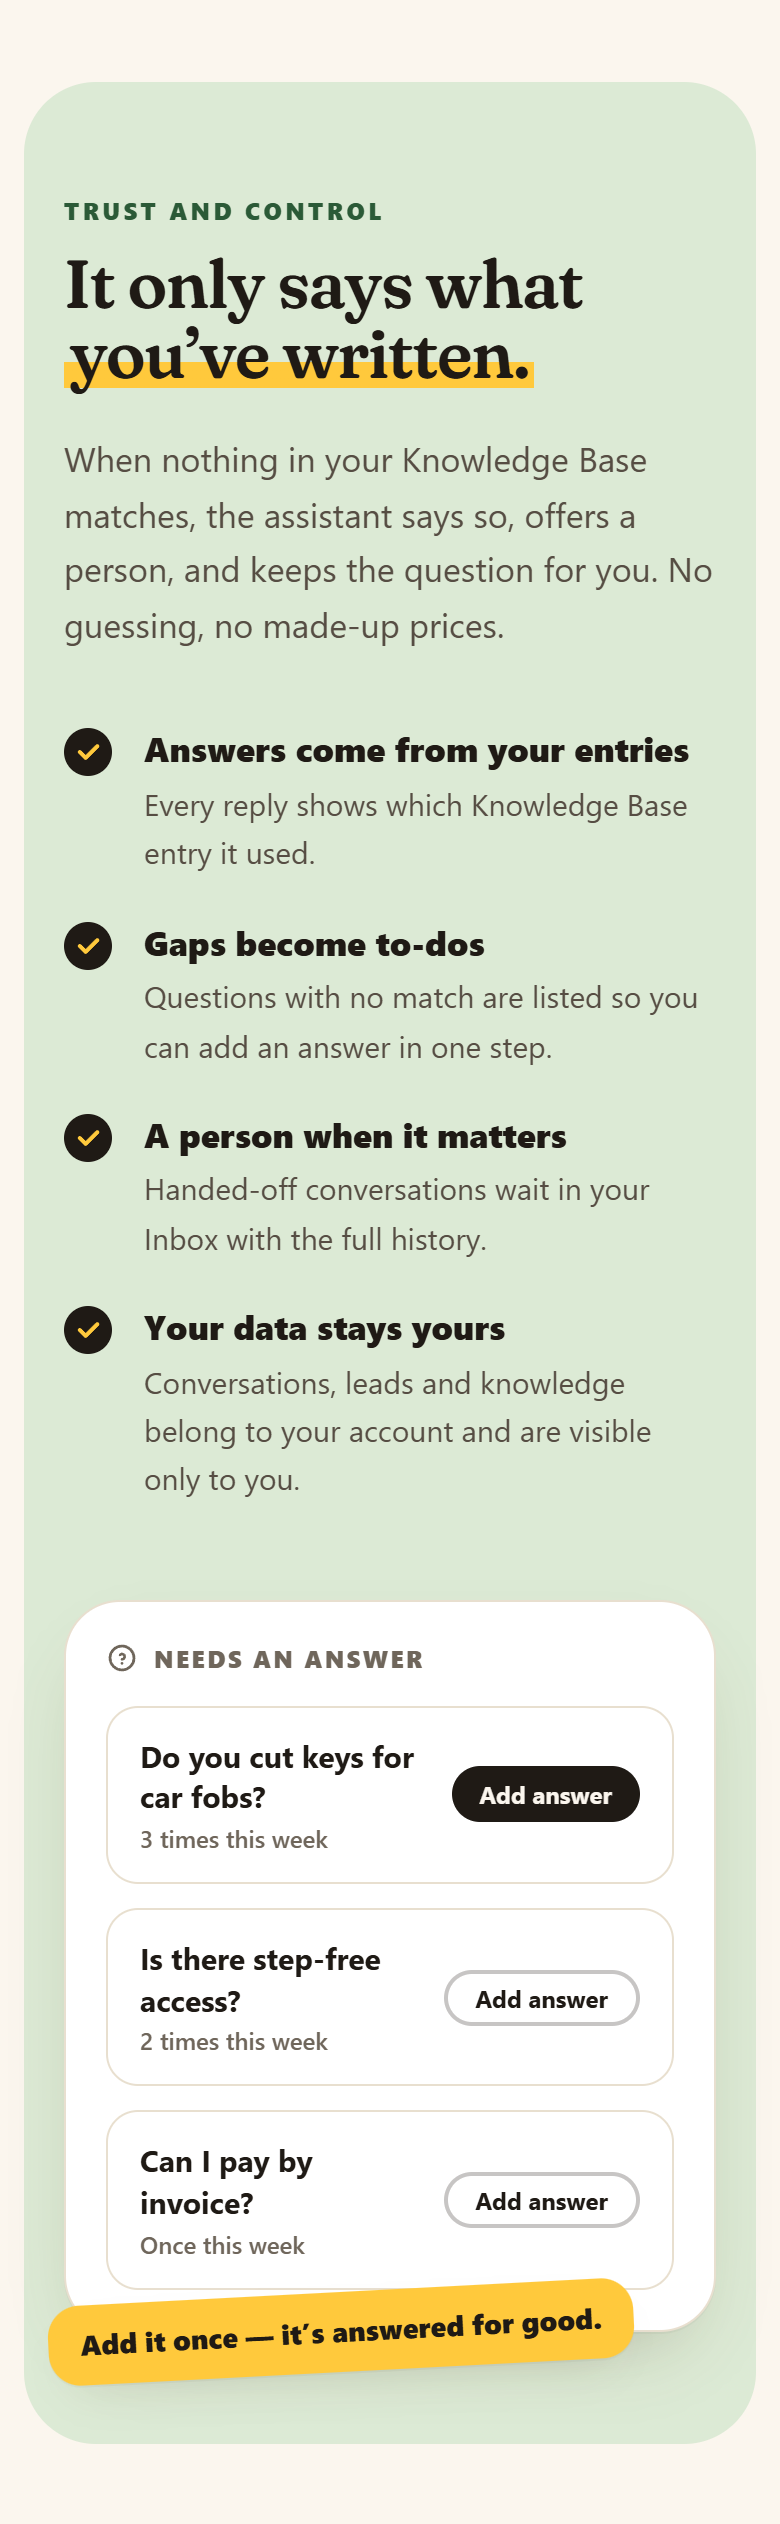
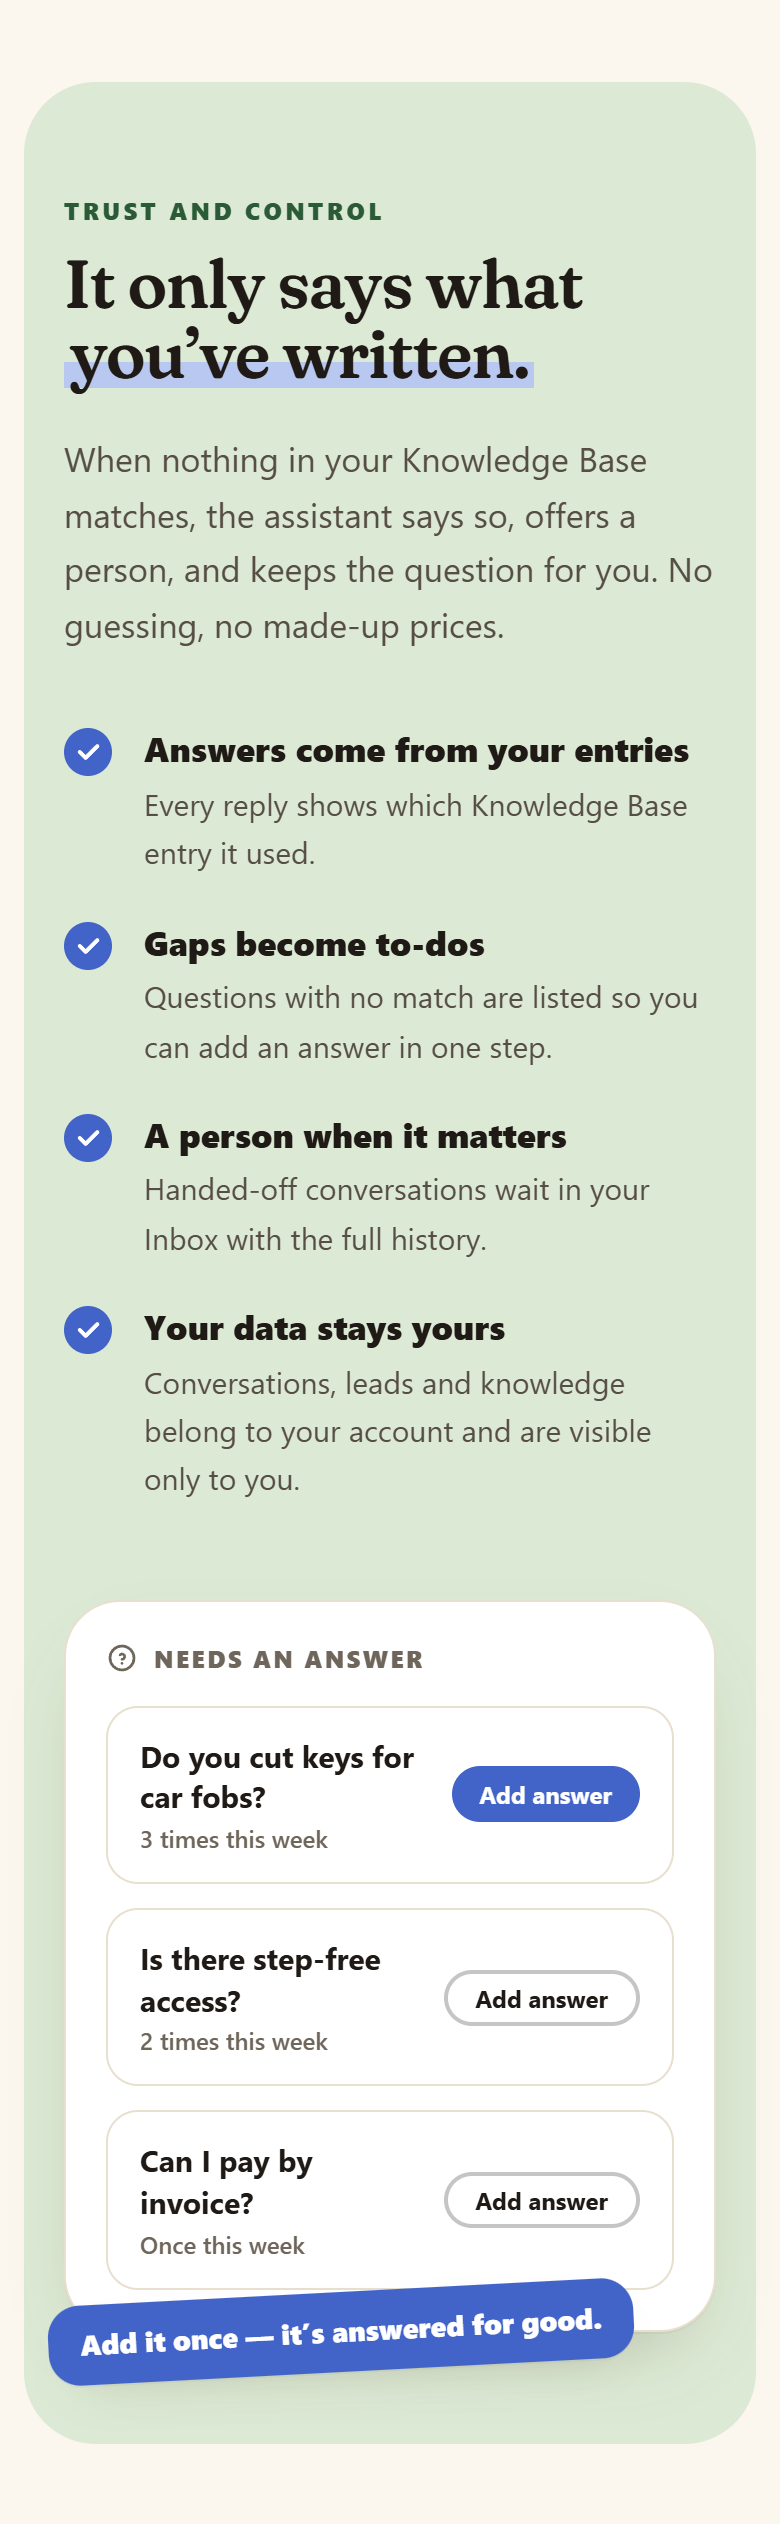
Switch landing accent from yellow to muted blue (#4263C7)
Blue primary buttons, visitor bubbles, tabs, logo and closing panel;
soft blue highlight marker and hero disc; deeper #2F4A9E for hover,
eyebrow text and focus rings. Paper background, Fraunces type, layout,
copy and examples unchanged.

diff --git a/src/features/marketing/components/how-it-works-section.tsx b/src/features/marketing/components/how-it-works-section.tsx
@@ -76,14 +76,14 @@ function InstallFragment() {
     <div className='bg-lp-ink overflow-hidden rounded-2xl shadow-lp-soft'>
       <div className='flex items-center gap-1.5 px-4 pt-3.5' aria-hidden='true'>
         <span className='bg-lp-coral size-2.5 rounded-full' />
-        <span className='bg-lp-sun size-2.5 rounded-full' />
+        <span className='bg-lp-blue-mid size-2.5 rounded-full' />
         <span className='bg-lp-sage size-2.5 rounded-full' />
       </div>
       <pre className='text-lp-paper overflow-x-auto px-4 pt-3 pb-5 font-mono text-[13px] leading-relaxed'>
         <code>
-          <span className='text-lp-sun'>{'<script'}</span>
+          <span className='text-lp-blue-mid'>{'<script'}</span>
           {'\n  src="…/widget-loader.js"\n  data-widget-id="your-id"\n  async'}
-          <span className='text-lp-sun'>{'></script>'}</span>
+          <span className='text-lp-blue-mid'>{'></script>'}</span>
         </code>
       </pre>
     </div>
@@ -96,7 +96,7 @@ const STEPS = [
     description:
       'Add your hours, services, prices and policies as short answers. Edit them whenever things change.',
     visual: <KnowledgeFragment />,
-    tint: 'bg-lp-sun-soft'
+    tint: 'bg-lp-blue-soft'
   },
   {
     title: 'Choose how it sounds',
@@ -110,7 +110,7 @@ const STEPS = [
     description:
       'Match the widget to your brand, copy the snippet, and test it before it goes live.',
     visual: <InstallFragment />,
-    tint: 'bg-lp-sky'
+    tint: 'bg-lp-paper-deep'
   }
 ] as const;
 
@@ -121,7 +121,7 @@ export function HowItWorksSection() {
       className='mx-auto max-w-6xl scroll-mt-20 px-5 py-16 sm:px-8 lg:py-24'
     >
       <div className='max-w-2xl'>
-        <p className='text-lp-coral text-xs font-extrabold tracking-[0.14em] uppercase'>
+        <p className='text-lp-blue-deep text-xs font-extrabold tracking-[0.14em] uppercase'>
           How it works
         </p>
         <h2 className='lp-display mt-3 text-[34px] leading-[1.05] font-semibold text-balance sm:text-[48px]'>
@@ -149,7 +149,7 @@ export function HowItWorksSection() {
             <div className={cn(index % 2 === 1 && 'lg:order-2')}>
               <span
                 aria-hidden='true'
-                className='lp-display text-lp-sun mb-2 hidden text-[88px] leading-none font-semibold sm:block [-webkit-text-stroke:2px_var(--lp-ink)]'
+                className='lp-display text-lp-blue-soft mb-2 hidden text-[88px] leading-none font-semibold sm:block [-webkit-text-stroke:2px_var(--lp-blue)]'
               >
                 {index + 1}
               </span>

diff --git a/src/features/marketing/components/final-cta-section.tsx b/src/features/marketing/components/final-cta-section.tsx
@@ -3,28 +3,28 @@ import { LandingButton } from './landing-button';
 export function FinalCtaSection() {
   return (
     <section className='px-3 pt-10 pb-16 sm:px-6 lg:pt-16 lg:pb-24'>
-      <div className='bg-lp-sun relative mx-auto max-w-6xl overflow-hidden rounded-[36px] px-6 py-16 text-center sm:rounded-[48px] sm:px-12 lg:py-24'>
+      <div className='bg-lp-blue relative mx-auto max-w-6xl overflow-hidden rounded-[36px] px-6 py-16 text-center sm:rounded-[48px] sm:px-12 lg:py-24'>
         <div
           aria-hidden='true'
-          className='bg-lp-sun-soft absolute -top-24 -left-16 size-72 rounded-full'
+          className='bg-lp-blue-deep/40 absolute -top-24 -left-16 size-72 rounded-full'
         />
         <div
           aria-hidden='true'
-          className='bg-lp-coral-soft absolute -right-20 -bottom-28 size-80 rounded-full'
+          className='bg-white/10 absolute -right-20 -bottom-28 size-80 rounded-full'
         />
         <div className='relative'>
-          <h2 className='lp-display mx-auto max-w-3xl text-[38px] leading-[1.04] font-semibold text-balance sm:text-[56px] lg:text-[64px]'>
+          <h2 className='lp-display mx-auto max-w-3xl text-[38px] leading-[1.04] text-white font-semibold text-balance sm:text-[56px] lg:text-[64px]'>
             Give every visitor an answer.
           </h2>
-          <p className='text-lp-ink/80 mx-auto mt-5 max-w-lg text-[17px] leading-relaxed text-pretty'>
+          <p className='text-white/85 mx-auto mt-5 max-w-lg text-[17px] leading-relaxed text-pretty'>
             Add what you know, paste one snippet into your site, and watch conversations arrive in
             your Inbox.
           </p>
           <div className='mx-auto mt-9 flex max-w-xs flex-col justify-center gap-3 sm:max-w-none sm:flex-row'>
-            <LandingButton href='/signup' variant='onYellow' fullWidthOnMobile>
+            <LandingButton href='/signup' variant='onBlue' fullWidthOnMobile>
               Get started
             </LandingButton>
-            <LandingButton href='/demo' variant='secondary' fullWidthOnMobile>
+            <LandingButton href='/demo' variant='onBlueOutline' fullWidthOnMobile>
               Try the demo
             </LandingButton>
           </div>

diff --git a/src/features/marketing/components/control-section.tsx b/src/features/marketing/components/control-section.tsx
@@ -42,7 +42,7 @@ export function ControlSection() {
                 <div key={point.title} className='flex gap-4'>
                   <span
                     aria-hidden='true'
-                    className='bg-lp-ink text-lp-sun mt-0.5 flex size-6 shrink-0 items-center justify-center rounded-full'
+                    className='bg-lp-blue mt-0.5 text-white flex size-6 shrink-0 items-center justify-center rounded-full'
                   >
                     <Icons.check className='size-3.5' strokeWidth={3.5} />
                   </span>
@@ -87,7 +87,7 @@ export function ControlSection() {
                     <span
                       className={
                         index === 0
-                          ? 'bg-lp-ink text-lp-paper shrink-0 rounded-full px-3.5 py-1.5 text-xs font-bold'
+                          ? 'bg-lp-blue shrink-0 rounded-full px-3.5 py-1.5 text-xs font-bold text-white'
                           : 'border-lp-ink/25 text-lp-ink shrink-0 rounded-full border-2 px-3.5 py-1 text-xs font-bold'
                       }
                     >
@@ -99,7 +99,7 @@ export function ControlSection() {
             </div>
             <div
               aria-hidden='true'
-              className='bg-lp-sun text-lp-ink shadow-lp-soft absolute -bottom-5 -left-2 rotate-[-3deg] rounded-2xl px-4 py-2.5 text-sm font-extrabold sm:-left-6'
+              className='bg-lp-blue text-white shadow-lp-soft absolute -bottom-5 -left-2 rotate-[-3deg] rounded-2xl px-4 py-2.5 text-sm font-extrabold sm:-left-6'
             >
               Add it once — it’s answered for good.
             </div>

diff --git a/src/features/marketing/components/landing-button.tsx b/src/features/marketing/components/landing-button.tsx
@@ -15,9 +15,10 @@ const landingButtonVariants = cva(
   {
     variants: {
       variant: {
-        primary: 'bg-lp-ink text-lp-paper shadow-lp-soft hover:bg-lp-ink-soft pr-3',
+        primary: 'bg-lp-blue text-white shadow-lp-soft hover:bg-lp-blue-deep pr-3',
         secondary: 'border-lp-ink/25 text-lp-ink hover:bg-lp-ink/5 border-2',
-        onYellow: 'bg-lp-ink text-lp-paper hover:bg-lp-ink-soft pr-3'
+        onBlue: 'text-lp-blue-deep hover:bg-lp-blue-soft bg-white pr-3',
+        onBlueOutline: 'border-2 border-white/60 text-white hover:bg-white/10'
       },
       fullWidthOnMobile: { true: 'w-full sm:w-auto' },
       size: { md: '', sm: 'min-h-10 pr-2 pl-5 text-sm' }
@@ -42,7 +43,7 @@ export function LandingButton({
   children,
   onClick
 }: LandingButtonProps) {
-  const withArrow = variant !== 'secondary';
+  const withArrow = variant !== 'secondary' && variant !== 'onBlueOutline';
   return (
     <Link
       href={href}
@@ -53,7 +54,10 @@ export function LandingButton({
       {withArrow ? (
         <span
           aria-hidden='true'
-          className='bg-lp-sun text-lp-ink flex size-7 items-center justify-center rounded-full transition-transform duration-200 group-hover:translate-x-0.5'
+          className={cn(
+            'flex size-7 items-center justify-center rounded-full transition-transform duration-200 group-hover:translate-x-0.5',
+            variant === 'onBlue' ? 'bg-lp-blue text-white' : 'bg-white text-lp-blue-deep'
+          )}
         >
           <Icons.arrowRight className='size-4' strokeWidth={2.5} />
         </span>

diff --git a/src/styles/landing.css b/src/styles/landing.css
@@ -16,8 +16,10 @@
   --lp-ink-soft: #564d43;
   --lp-muted: #6f665b;
   --lp-line: #e8dfcf;
-  --lp-sun: #ffc93c;
-  --lp-sun-soft: #ffeaad;
+  --lp-blue: #4263c7;
+  --lp-blue-deep: #2f4a9e;
+  --lp-blue-mid: #b9c8f0;
+  --lp-blue-soft: #dfe6f8;
   --lp-coral: #ef5b34;
   --lp-coral-soft: #ffe3d8;
   --lp-sage: #dcead5;
@@ -26,7 +28,7 @@
   --lp-sky-ink: #1f4e79;
   --lp-lilac: #e9e1f6;
   --lp-lilac-ink: #4b3a82;
-  --lp-focus: #1f1a15;
+  --lp-focus: #2f4a9e;
 
   --lp-shadow-card: 0 1px 0 rgba(31, 26, 21, 0.04), 0 18px 40px -18px rgba(66, 43, 12, 0.28);
   --lp-shadow-soft: 0 1px 0 rgba(31, 26, 21, 0.04), 0 10px 24px -14px rgba(66, 43, 12, 0.22);
@@ -39,8 +41,10 @@
     --color-lp-ink-soft: var(--lp-ink-soft);
     --color-lp-muted: var(--lp-muted);
     --color-lp-line: var(--lp-line);
-    --color-lp-sun: var(--lp-sun);
-    --color-lp-sun-soft: var(--lp-sun-soft);
+    --color-lp-blue: var(--lp-blue);
+    --color-lp-blue-deep: var(--lp-blue-deep);
+    --color-lp-blue-mid: var(--lp-blue-mid);
+    --color-lp-blue-soft: var(--lp-blue-soft);
     --color-lp-coral: var(--lp-coral);
     --color-lp-coral-soft: var(--lp-coral-soft);
     --color-lp-sage: var(--lp-sage);
@@ -73,7 +77,7 @@
 
 /* Marker-pen underline for the one or two words per heading that matter. */
 .landing .lp-mark {
-  background: linear-gradient(transparent 60%, var(--lp-sun) 60% 90%, transparent 90%);
+  background: linear-gradient(transparent 60%, var(--lp-blue-mid) 60% 90%, transparent 90%);
   -webkit-box-decoration-break: clone;
   box-decoration-break: clone;
   padding: 0 0.08em;

diff --git a/src/features/marketing/components/question-marquee.tsx b/src/features/marketing/components/question-marquee.tsx
@@ -8,12 +8,12 @@ import { cn } from '@/lib/utils';
  */
 const QUESTIONS: { text: string; tone: string }[] = [
   { text: 'Do you take new patients?', tone: 'bg-lp-sky text-lp-sky-ink' },
-  { text: 'Can I return paint once it’s opened?', tone: 'bg-lp-sun-soft text-lp-ink' },
+  { text: 'Can I return paint once it’s opened?', tone: 'bg-lp-blue-soft text-lp-blue-deep' },
   { text: 'What time do you close today?', tone: 'bg-lp-sage text-lp-sage-ink' },
   { text: 'Do you have gluten-free options?', tone: 'bg-lp-coral-soft text-lp-coral' },
   { text: 'How much is a first consultation?', tone: 'bg-lp-lilac text-lp-lilac-ink' },
   { text: 'Where is my order?', tone: 'bg-lp-sky text-lp-sky-ink' },
-  { text: 'Is there parking nearby?', tone: 'bg-lp-sun-soft text-lp-ink' },
+  { text: 'Is there parking nearby?', tone: 'bg-lp-blue-soft text-lp-blue-deep' },
   { text: 'Can I speak to someone about my invoice?', tone: 'bg-lp-sage text-lp-sage-ink' },
   { text: 'Do you deliver on weekends?', tone: 'bg-lp-coral-soft text-lp-coral' },
   { text: 'What’s your cancellation policy?', tone: 'bg-lp-lilac text-lp-lilac-ink' }

diff --git a/src/features/marketing/components/landing-logo.tsx b/src/features/marketing/components/landing-logo.tsx
@@ -2,14 +2,14 @@ export function LandingLogo({ className }: { className?: string }) {
   return (
     <span className={`inline-flex items-center gap-2.5 ${className ?? ''}`}>
       <svg viewBox='0 0 32 32' className='size-8' aria-hidden='true'>
-        <circle cx='16' cy='16' r='16' className='fill-lp-sun' />
+        <circle cx='16' cy='16' r='16' className='fill-lp-blue' />
         <path
           d='M9.5 11.5a3 3 0 0 1 3-3h7a3 3 0 0 1 3 3v5a3 3 0 0 1-3 3H15l-3.6 3v-3h-.9a3 3 0 0 1-3-3v-5Z'
-          className='fill-lp-ink'
+          className='fill-white'
         />
-        <circle cx='13' cy='14' r='1.15' className='fill-lp-sun' />
-        <circle cx='16' cy='14' r='1.15' className='fill-lp-sun' />
-        <circle cx='19' cy='14' r='1.15' className='fill-lp-sun' />
+        <circle cx='13' cy='14' r='1.15' className='fill-lp-blue' />
+        <circle cx='16' cy='14' r='1.15' className='fill-lp-blue' />
+        <circle cx='19' cy='14' r='1.15' className='fill-lp-blue' />
       </svg>
       <span className='text-lp-ink text-lg font-extrabold tracking-tight'>Platform</span>
     </span>

diff --git a/src/features/marketing/components/conversation-ui.tsx b/src/features/marketing/components/conversation-ui.tsx
@@ -18,7 +18,7 @@ export function VisitorBubble({
   return (
     <p
       className={cn(
-        'bg-lp-ink text-lp-paper ml-auto max-w-[85%] rounded-[20px] rounded-br-md px-4 py-2.5 text-[15px] leading-snug',
+        'bg-lp-blue ml-auto text-white max-w-[85%] rounded-[20px] rounded-br-md px-4 py-2.5 text-[15px] leading-snug',
         className
       )}
     >
@@ -54,7 +54,7 @@ export function AssistantBubble({
 export function WidgetFrame({
   name,
   initials,
-  accent = 'bg-lp-sun',
+  accent = 'bg-lp-blue-soft',
   children,
   className
 }: {
@@ -110,7 +110,7 @@ export type InboxTone = 'lead' | 'handoff' | 'unanswered';
 const TONE: Record<InboxTone, { label: string; className: string }> = {
   lead: { label: 'Lead captured', className: 'bg-lp-sage text-lp-sage-ink' },
   handoff: { label: 'Needs a person', className: 'bg-lp-coral-soft text-lp-coral' },
-  unanswered: { label: 'Unanswered question', className: 'bg-lp-sun-soft text-lp-ink' }
+  unanswered: { label: 'Unanswered question', className: 'bg-lp-blue-soft text-lp-blue-deep' }
 };
 
 export function InboxCard({

diff --git a/src/features/marketing/components/examples-showcase.tsx b/src/features/marketing/components/examples-showcase.tsx
@@ -63,8 +63,8 @@ const EXAMPLES: Example[] = [
       message: 'Do you cut keys for car fobs?',
       tones: ['unanswered']
     },
-    stage: 'bg-lp-sun-soft',
-    accent: 'bg-lp-sun',
+    stage: 'bg-lp-paper-deep',
+    accent: 'bg-lp-blue-soft',
     takeaway:
       'When there’s no matching answer, the question is kept for you so you can add one in a step.'
   },
@@ -174,7 +174,7 @@ export function ExamplesShowcase() {
               className={cn(
                 'shrink-0 snap-start rounded-full border-2 px-5 py-2.5 text-[15px] font-bold whitespace-nowrap transition-colors',
                 selected
-                  ? 'border-lp-ink bg-lp-ink text-lp-paper'
+                  ? 'border-lp-blue bg-lp-blue text-white'
                   : 'border-lp-line bg-lp-card text-lp-ink-soft hover:border-lp-ink/30 hover:text-lp-ink'
               )}
             >

diff --git a/src/features/marketing/components/hero-section.tsx b/src/features/marketing/components/hero-section.tsx
@@ -14,7 +14,7 @@ export function HeroSection() {
       <div className='grid items-center gap-14 lg:grid-cols-[1.02fr_1fr] lg:gap-10'>
         <div className='lp-rise'>
           <p className='bg-lp-card border-lp-line text-lp-ink shadow-lp-soft inline-flex items-center gap-2 rounded-full border px-4 py-1.5 text-[13px] font-bold'>
-            <Icons.sparkles className='text-lp-coral size-4' aria-hidden='true' />
+            <Icons.sparkles className='text-lp-blue size-4' aria-hidden='true' />
             An AI assistant for your website
           </p>
 

diff --git a/src/features/marketing/components/examples-section.tsx b/src/features/marketing/components/examples-section.tsx
@@ -4,7 +4,7 @@ export function ExamplesSection() {
   return (
     <section id='examples' className='mx-auto max-w-6xl scroll-mt-20 px-5 py-20 sm:px-8 lg:py-28'>
       <div className='mx-auto max-w-2xl text-center'>
-        <p className='text-lp-coral text-xs font-extrabold tracking-[0.14em] uppercase'>
+        <p className='text-lp-blue-deep text-xs font-extrabold tracking-[0.14em] uppercase'>
           Any kind of business
         </p>
         <h2 className='lp-display mt-3 text-[34px] leading-[1.05] font-semibold text-balance sm:text-[48px]'>

diff --git a/src/features/marketing/components/product-preview.tsx b/src/features/marketing/components/product-preview.tsx
@@ -26,7 +26,7 @@ export function ProductPreview() {
       {/* Sun disc behind the scene */}
       <div
         aria-hidden='true'
-        className='bg-lp-sun absolute -top-6 right-[-8%] -z-0 size-[78%] rounded-full opacity-90 lg:right-[-4%]'
+        className='bg-lp-blue-mid absolute -top-6 right-[-8%] -z-0 size-[78%] rounded-full opacity-90 lg:right-[-4%]'
       />
       <div
         aria-hidden='true'
